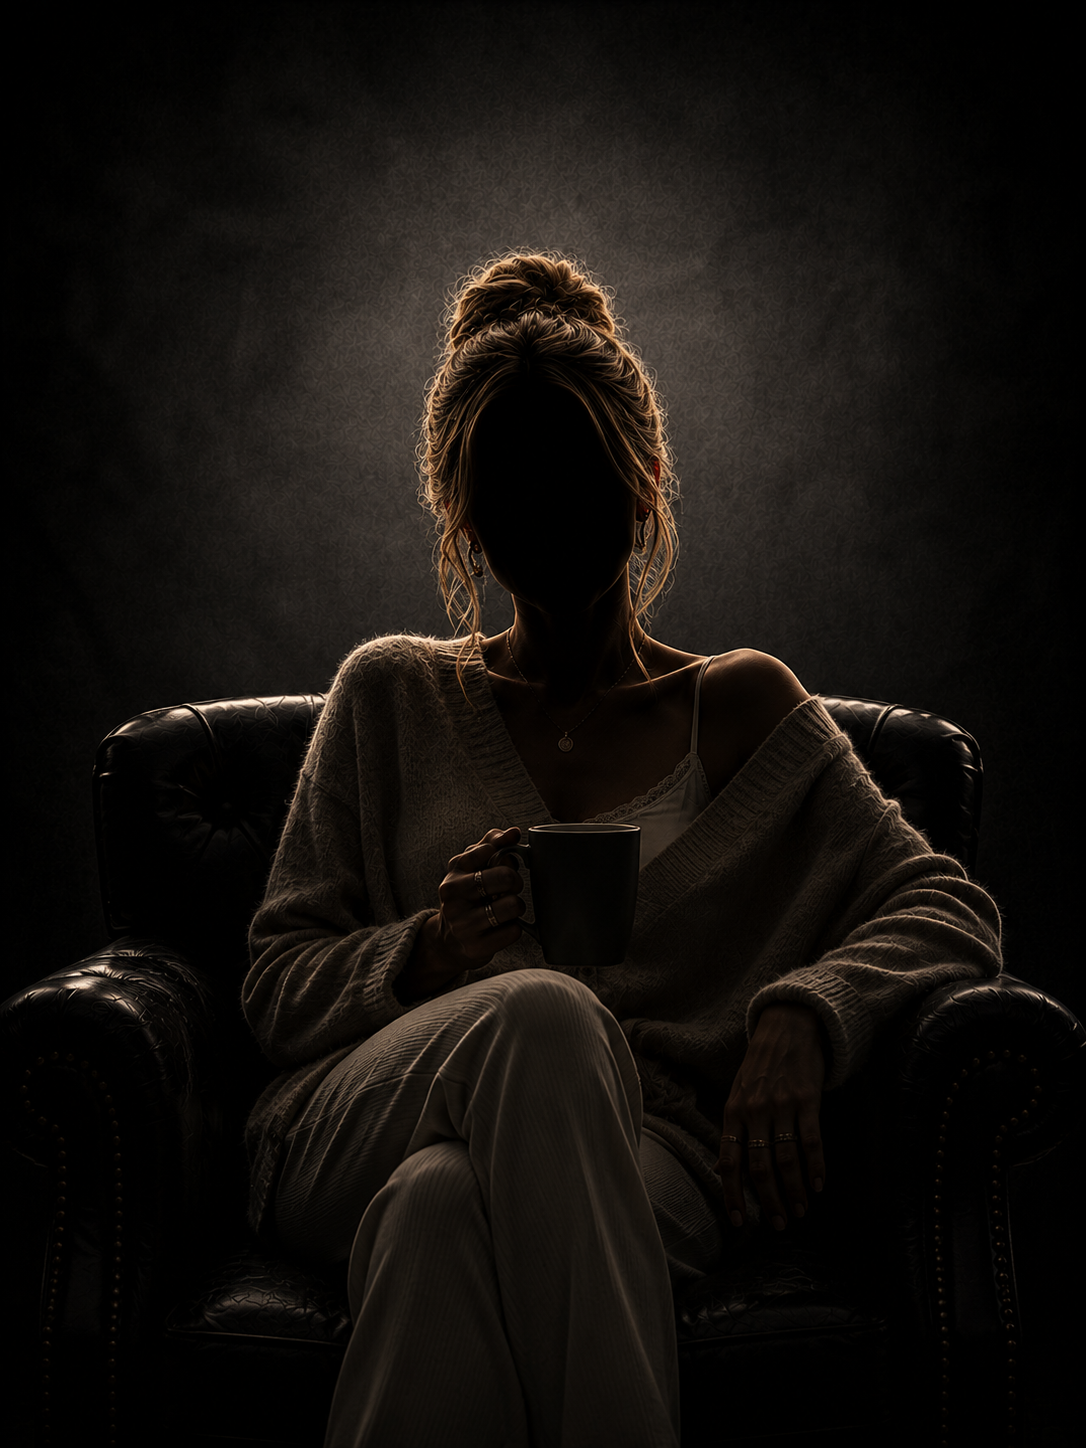
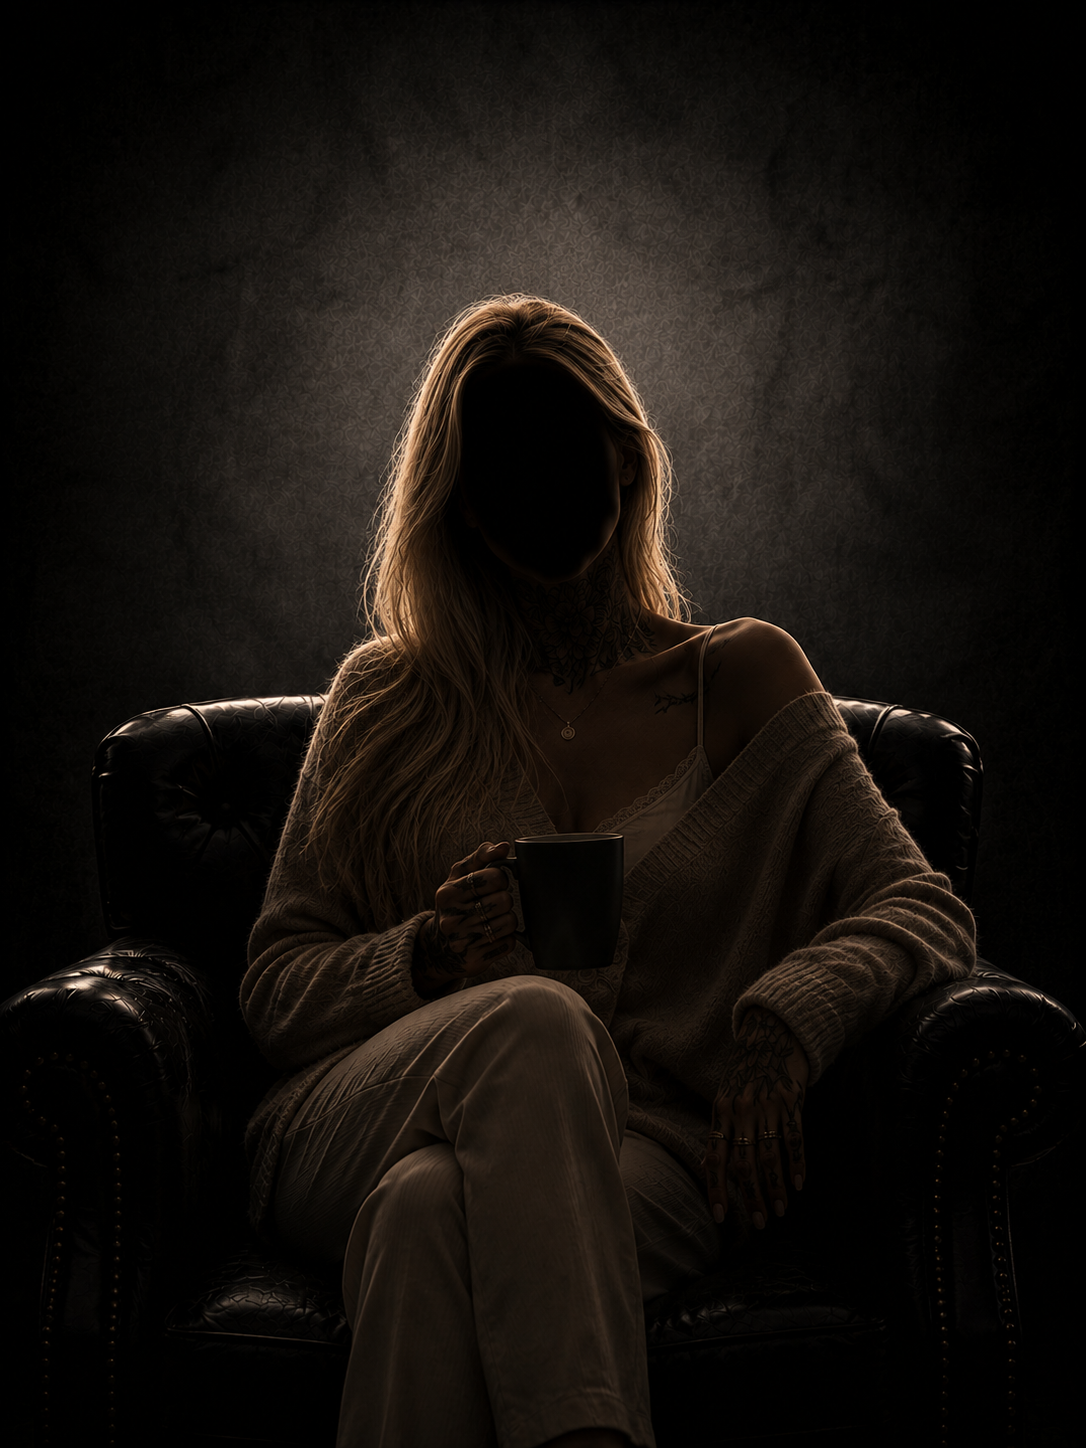
08/07

diff --git a/data/appearances/index.ts b/data/appearances/index.ts
@@ -12,6 +12,8 @@ import wyrok from './chylka/Wyrok.json';
 import ekstradycja from './chylka/Ekstradycja.json';
 import precedens from './chylka/Precedens.json';
 import afekt from './chylka/Afekt.json';
+import egzekucja from './chylka/Egzekucja.json';
+import skazanie from './chylka/Skazanie.json';
 
 
 
@@ -44,6 +46,11 @@ export const appearancesData = [
   ...ekstradycja.map((char: any) => ({ ...char, bookId: 'ekstradycja' })),
   ...precedens.map((char: any) => ({ ...char, bookId: 'precedens' })),
   ...afekt.map((char: any) => ({ ...char, bookId: 'afekt' })),
+  ...egzekucja.map((char: any) => ({ ...char, bookId: 'egzekucja' })),
+  ...skazanie.map((char: any) => ({ ...char, bookId: 'skazanie' })),
+
+
+  
 
 
 